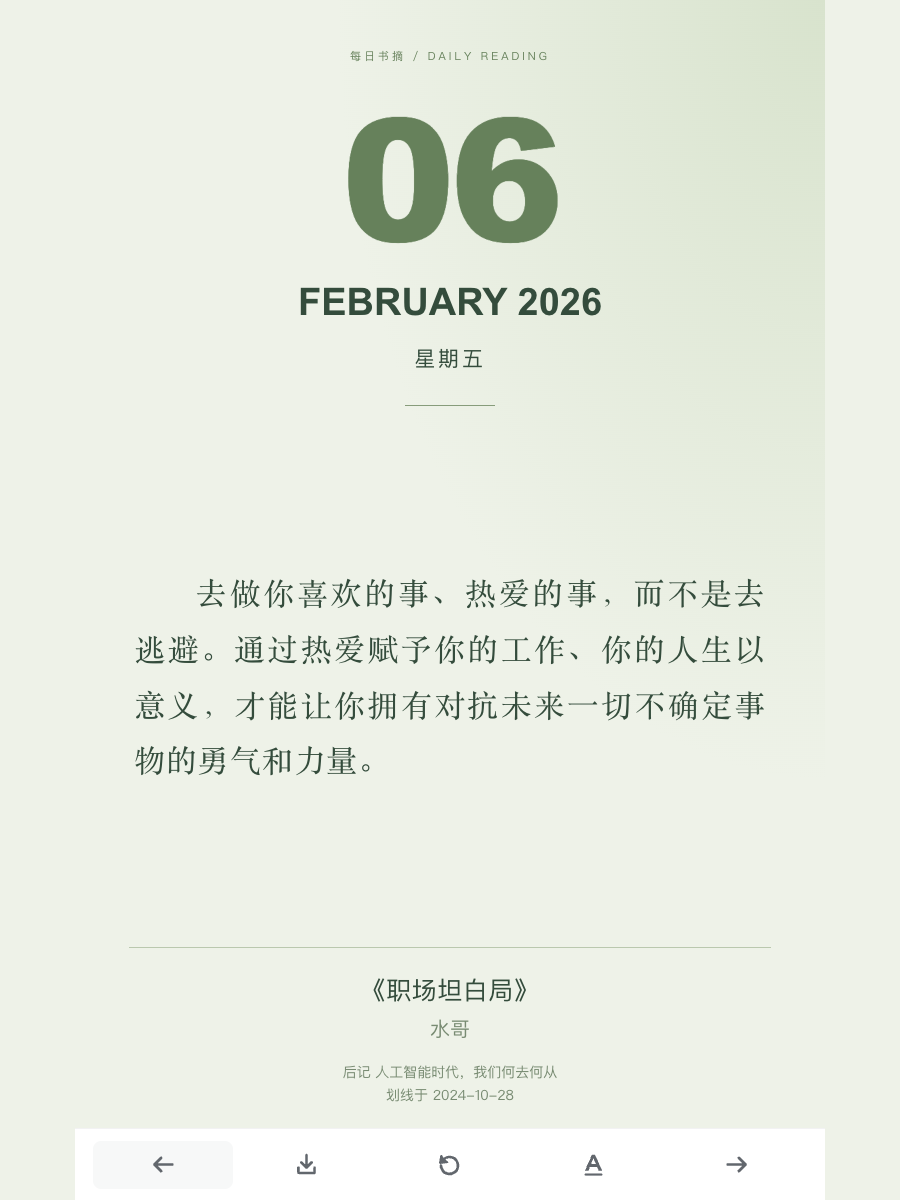
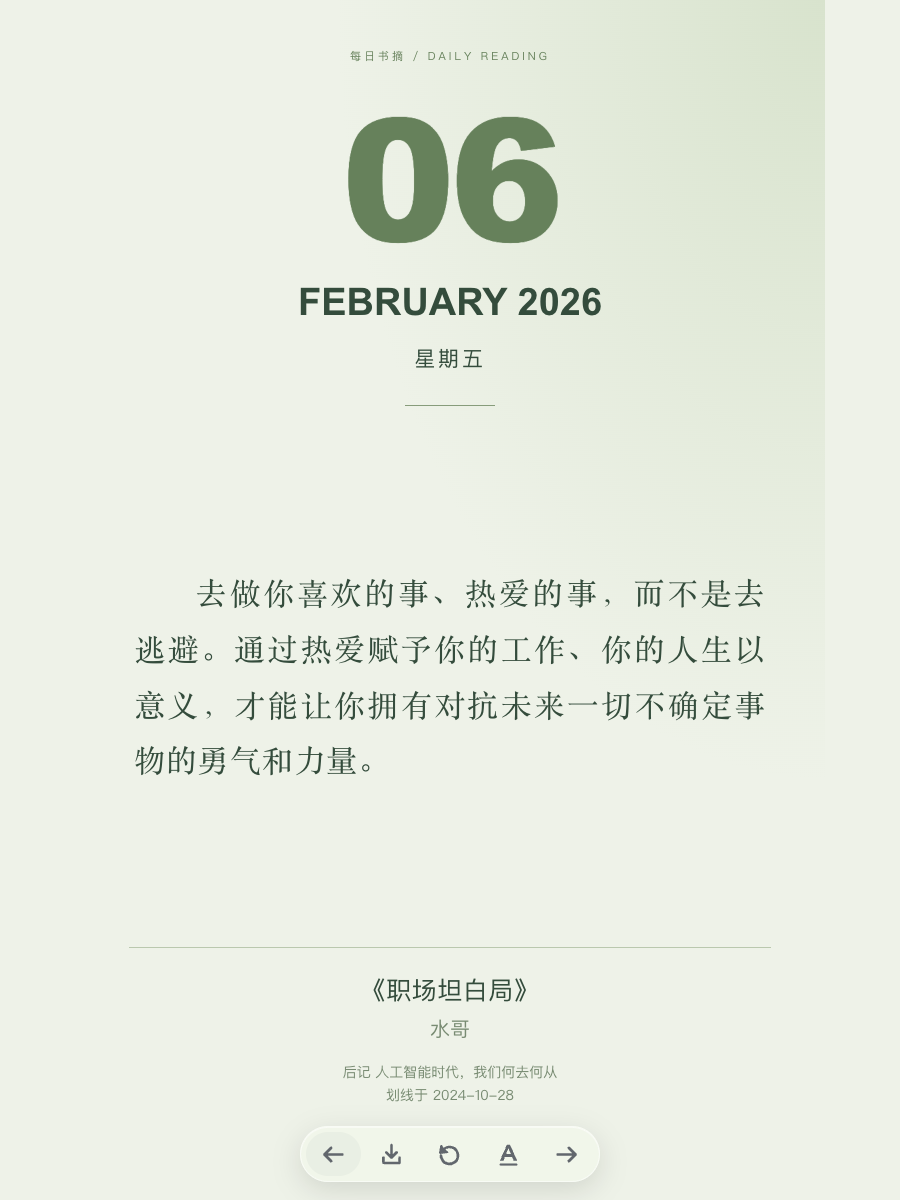
Restore compact floating frosted toolbar

Changed region(s): [[0.3111, 0.925, 0.7156, 1.0], [0.8089, 0.9558, 0.84, 0.9867], [0.1556, 0.9558, 0.1867, 0.9867]]

diff --git a/docs/layout.css b/docs/layout.css
@@ -23,6 +23,8 @@ html body .export-card>.quote{flex:none;overflow:visible;min-height:240px}
 html body .export-card>.source{max-height:none;overflow:visible}
 @media(max-height:650px){html body .card{padding-top:14px;padding-bottom:78px}html body .card>.label{font-size:10px;margin-bottom:8px}html body .card .day{font-size:68px}html body .card .month{font-size:20px!important;margin-top:6px}html body .card .weekday{font-size:13px;margin-top:6px}html body .card>.rule{margin:12px auto}html body .card>.source{margin-top:10px;padding-top:8px}html body .card .details{margin-top:6px}html body .calendar-nav{bottom:10px}}
 
-html body .calendar-nav{position:fixed;z-index:5;left:50%;bottom:0;transform:translateX(-50%);display:flex;align-items:center;justify-content:space-around;width:100%;max-width:750px;min-height:72px;margin:0;padding:8px 18px;border:0;border-top:1px solid rgba(90,95,100,.08);border-radius:0;background:#fff;color:#62676d;box-shadow:none;backdrop-filter:none;-webkit-backdrop-filter:none}html body .calendar-nav{padding-bottom:calc(8px + env(safe-area-inset-bottom,0px))}html body .calendar-nav button{display:flex;flex:1 1 0;align-items:center;justify-content:center;min-width:44px;min-height:48px;height:48px;margin:0;padding:10px;border:0;border-radius:8px;background:transparent;color:inherit;box-shadow:none;outline:none;-webkit-tap-highlight-color:transparent}html body .calendar-nav button+button{margin-left:0}html body .calendar-nav button:last-child{background:transparent}html body .calendar-nav button:focus{outline:none;box-shadow:none}html body .calendar-nav button:active{background:rgba(100,110,120,.08);opacity:.65}html body .calendar-nav button:focus-visible{outline:none;background:rgba(100,110,120,.12)}html body .calendar-nav svg{display:block;width:25px;height:25px;filter:none;pointer-events:none}html body .calendar-nav button[aria-busy="true"] svg{opacity:.4}html[data-theme="night"] body .calendar-nav{background:#182430;color:#c4cbd1;border-top-color:rgba(255,255,255,.06)}
+html body .calendar-nav{position:fixed;z-index:5;left:50%;bottom:18px;bottom:calc(18px + env(safe-area-inset-bottom,0px));transform:translateX(-50%);display:flex;align-items:center;justify-content:space-around;width:300px;max-width:calc(100% - 32px);min-height:56px;margin:0;padding:5px;border:1px solid rgba(255,255,255,.55);border-radius:30px;background:rgba(248,249,245,.82);color:#62676d;box-shadow:inset 0 1px 0 rgba(255,255,255,.5),0 8px 28px rgba(0,0,0,.12);backdrop-filter:blur(22px) saturate(160%);-webkit-backdrop-filter:blur(22px) saturate(160%)}html body .calendar-nav button{display:flex;flex:1 1 0;align-items:center;justify-content:center;min-width:44px;min-height:44px;height:44px;margin:0;padding:10px;border:0;border-radius:22px;background:transparent;color:inherit;box-shadow:none;outline:none;-webkit-tap-highlight-color:transparent}html body .calendar-nav button+button{margin-left:0}html body .calendar-nav button:last-child{background:transparent}html body .calendar-nav button:focus{outline:none;box-shadow:none}html body .calendar-nav button:active{background:rgba(100,110,120,.08);opacity:.65}html body .calendar-nav button:focus-visible{outline:none;background:rgba(100,110,120,.12)}html body .calendar-nav svg{display:block;width:25px;height:25px;filter:none;pointer-events:none}html body .calendar-nav button[aria-busy="true"] svg{opacity:.4}html[data-theme="night"] body .calendar-nav{background:rgba(24,36,48,.86);color:#d0d6db;border-color:rgba(255,255,255,.15)}
 
 html body .calendar-nav .theme-switch{background:transparent}html body .calendar-nav button:hover{background:rgba(100,110,120,.05)}
+
+@supports ((backdrop-filter:blur(12px)) or (-webkit-backdrop-filter:blur(12px))){html body .calendar-nav{background:rgba(248,249,245,.38)}html[data-theme="night"] body .calendar-nav{background:rgba(24,36,48,.5)}}
